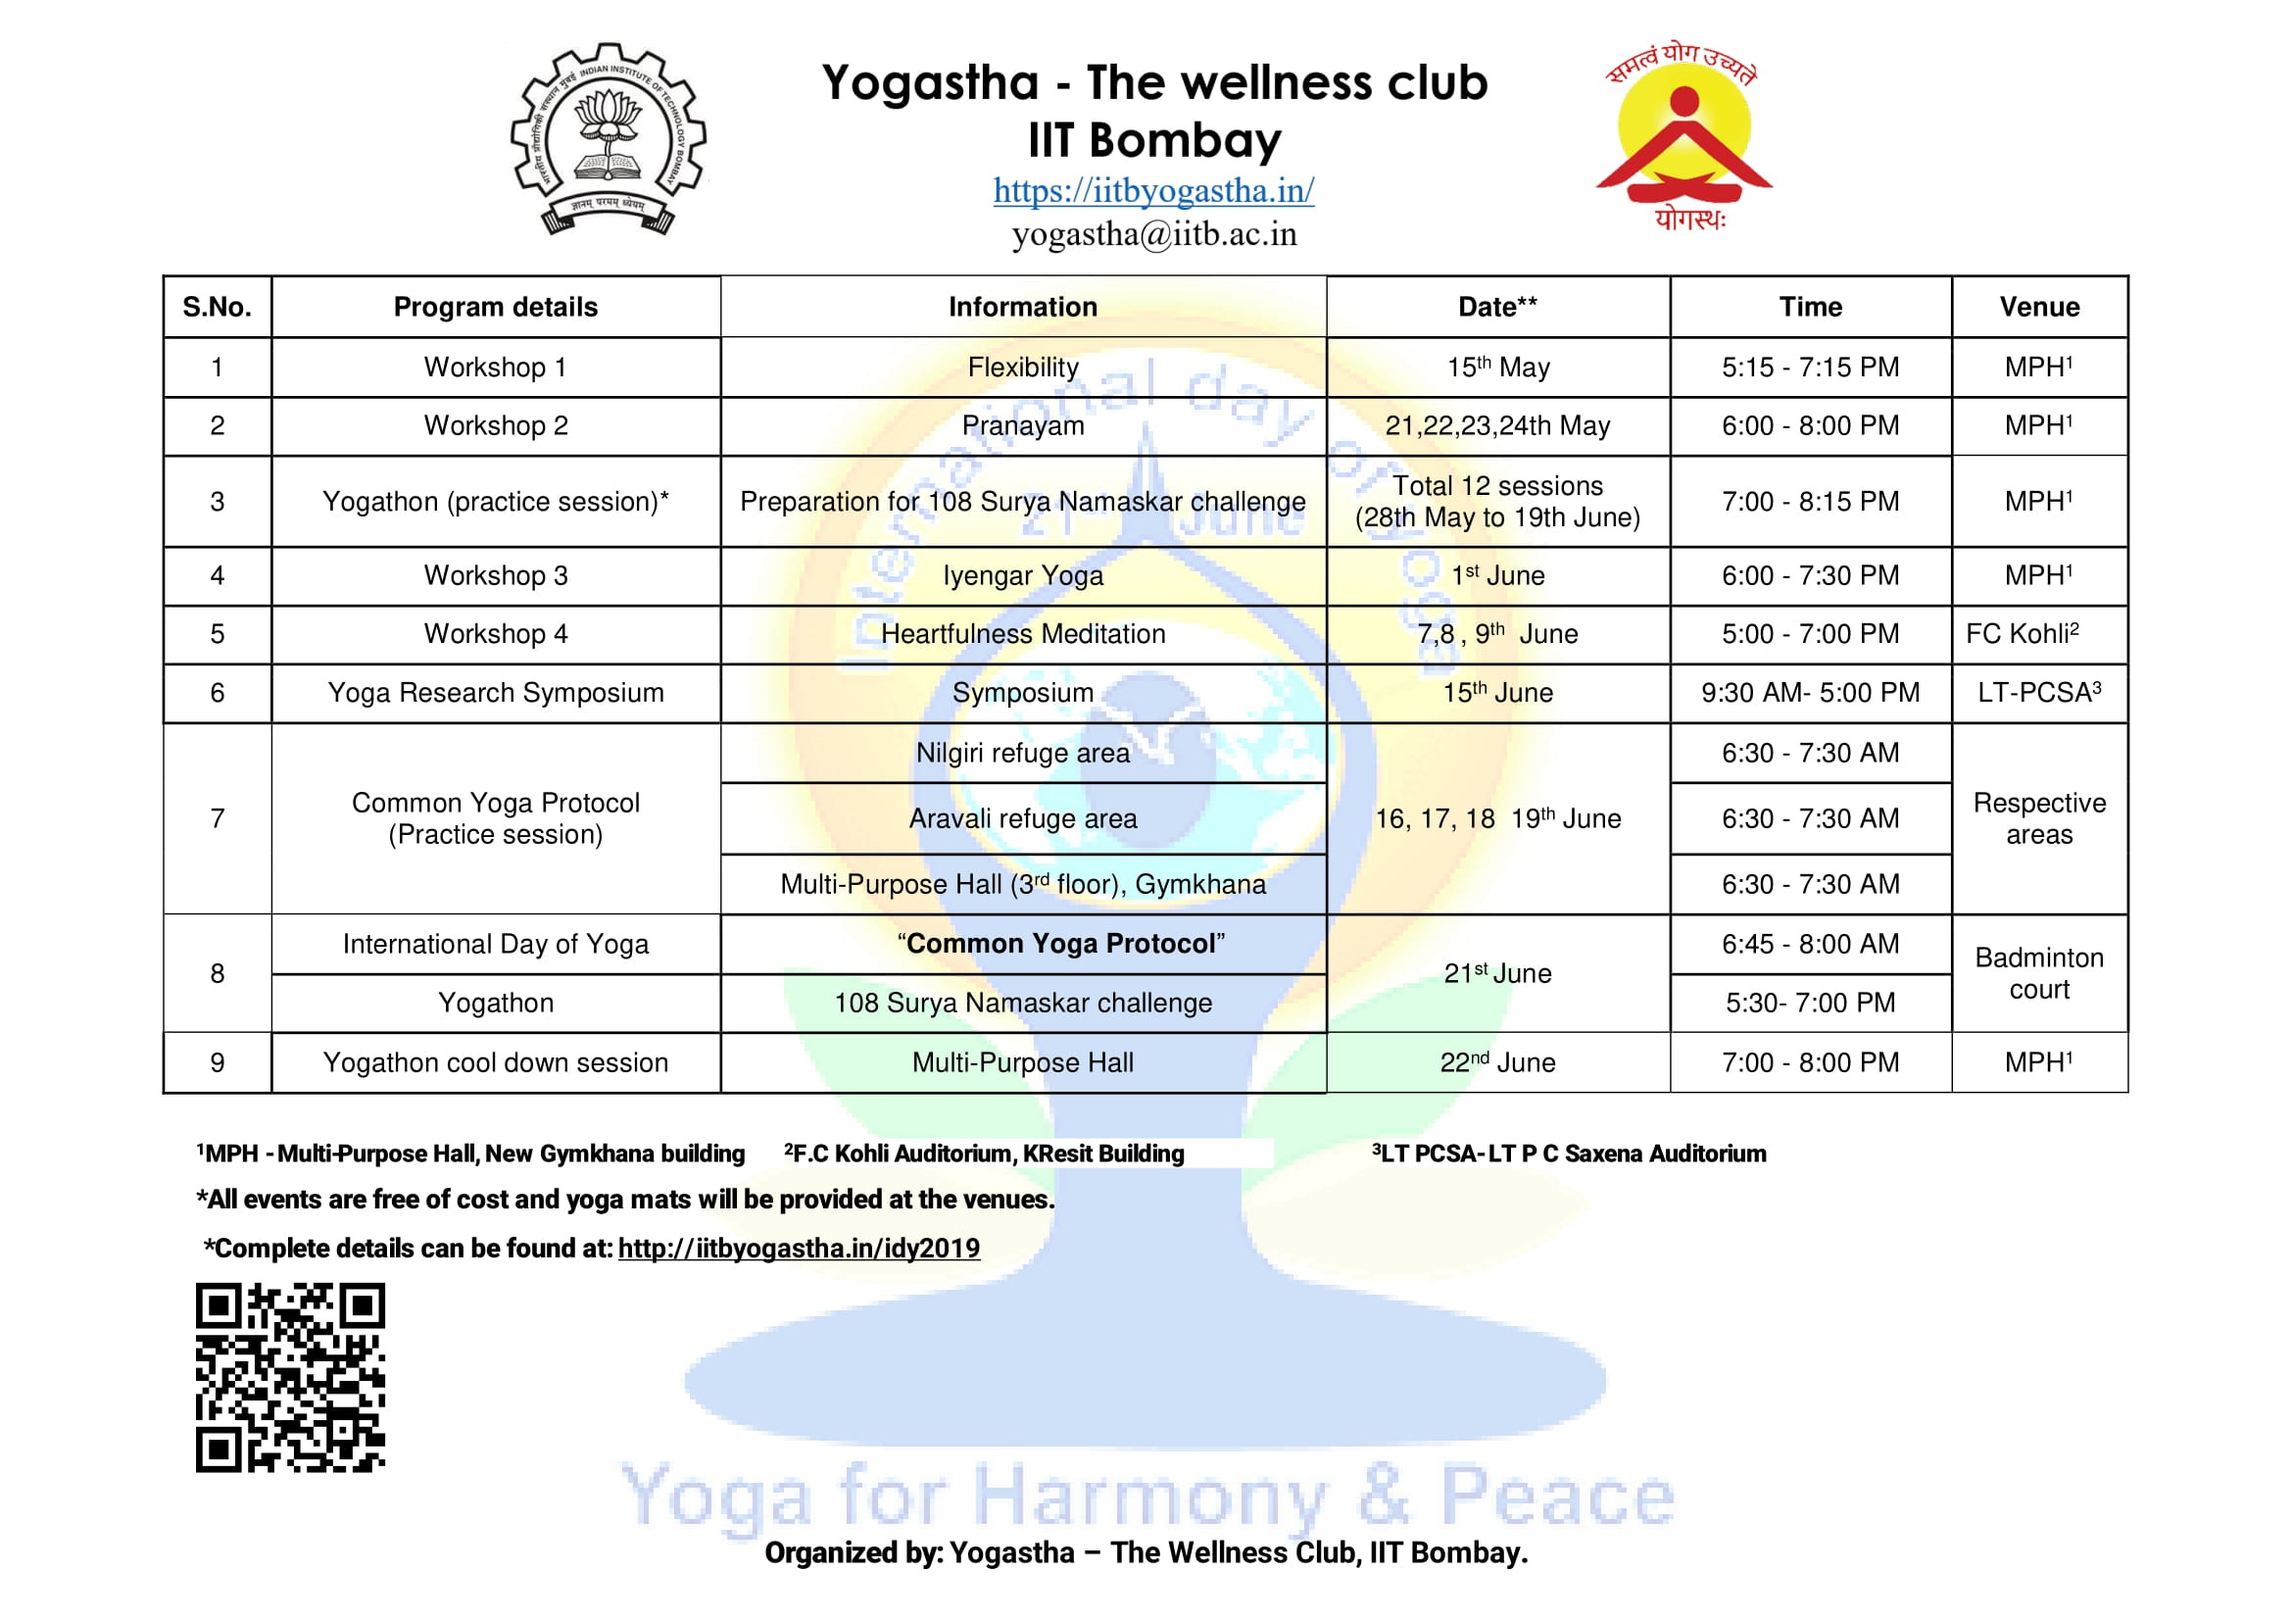
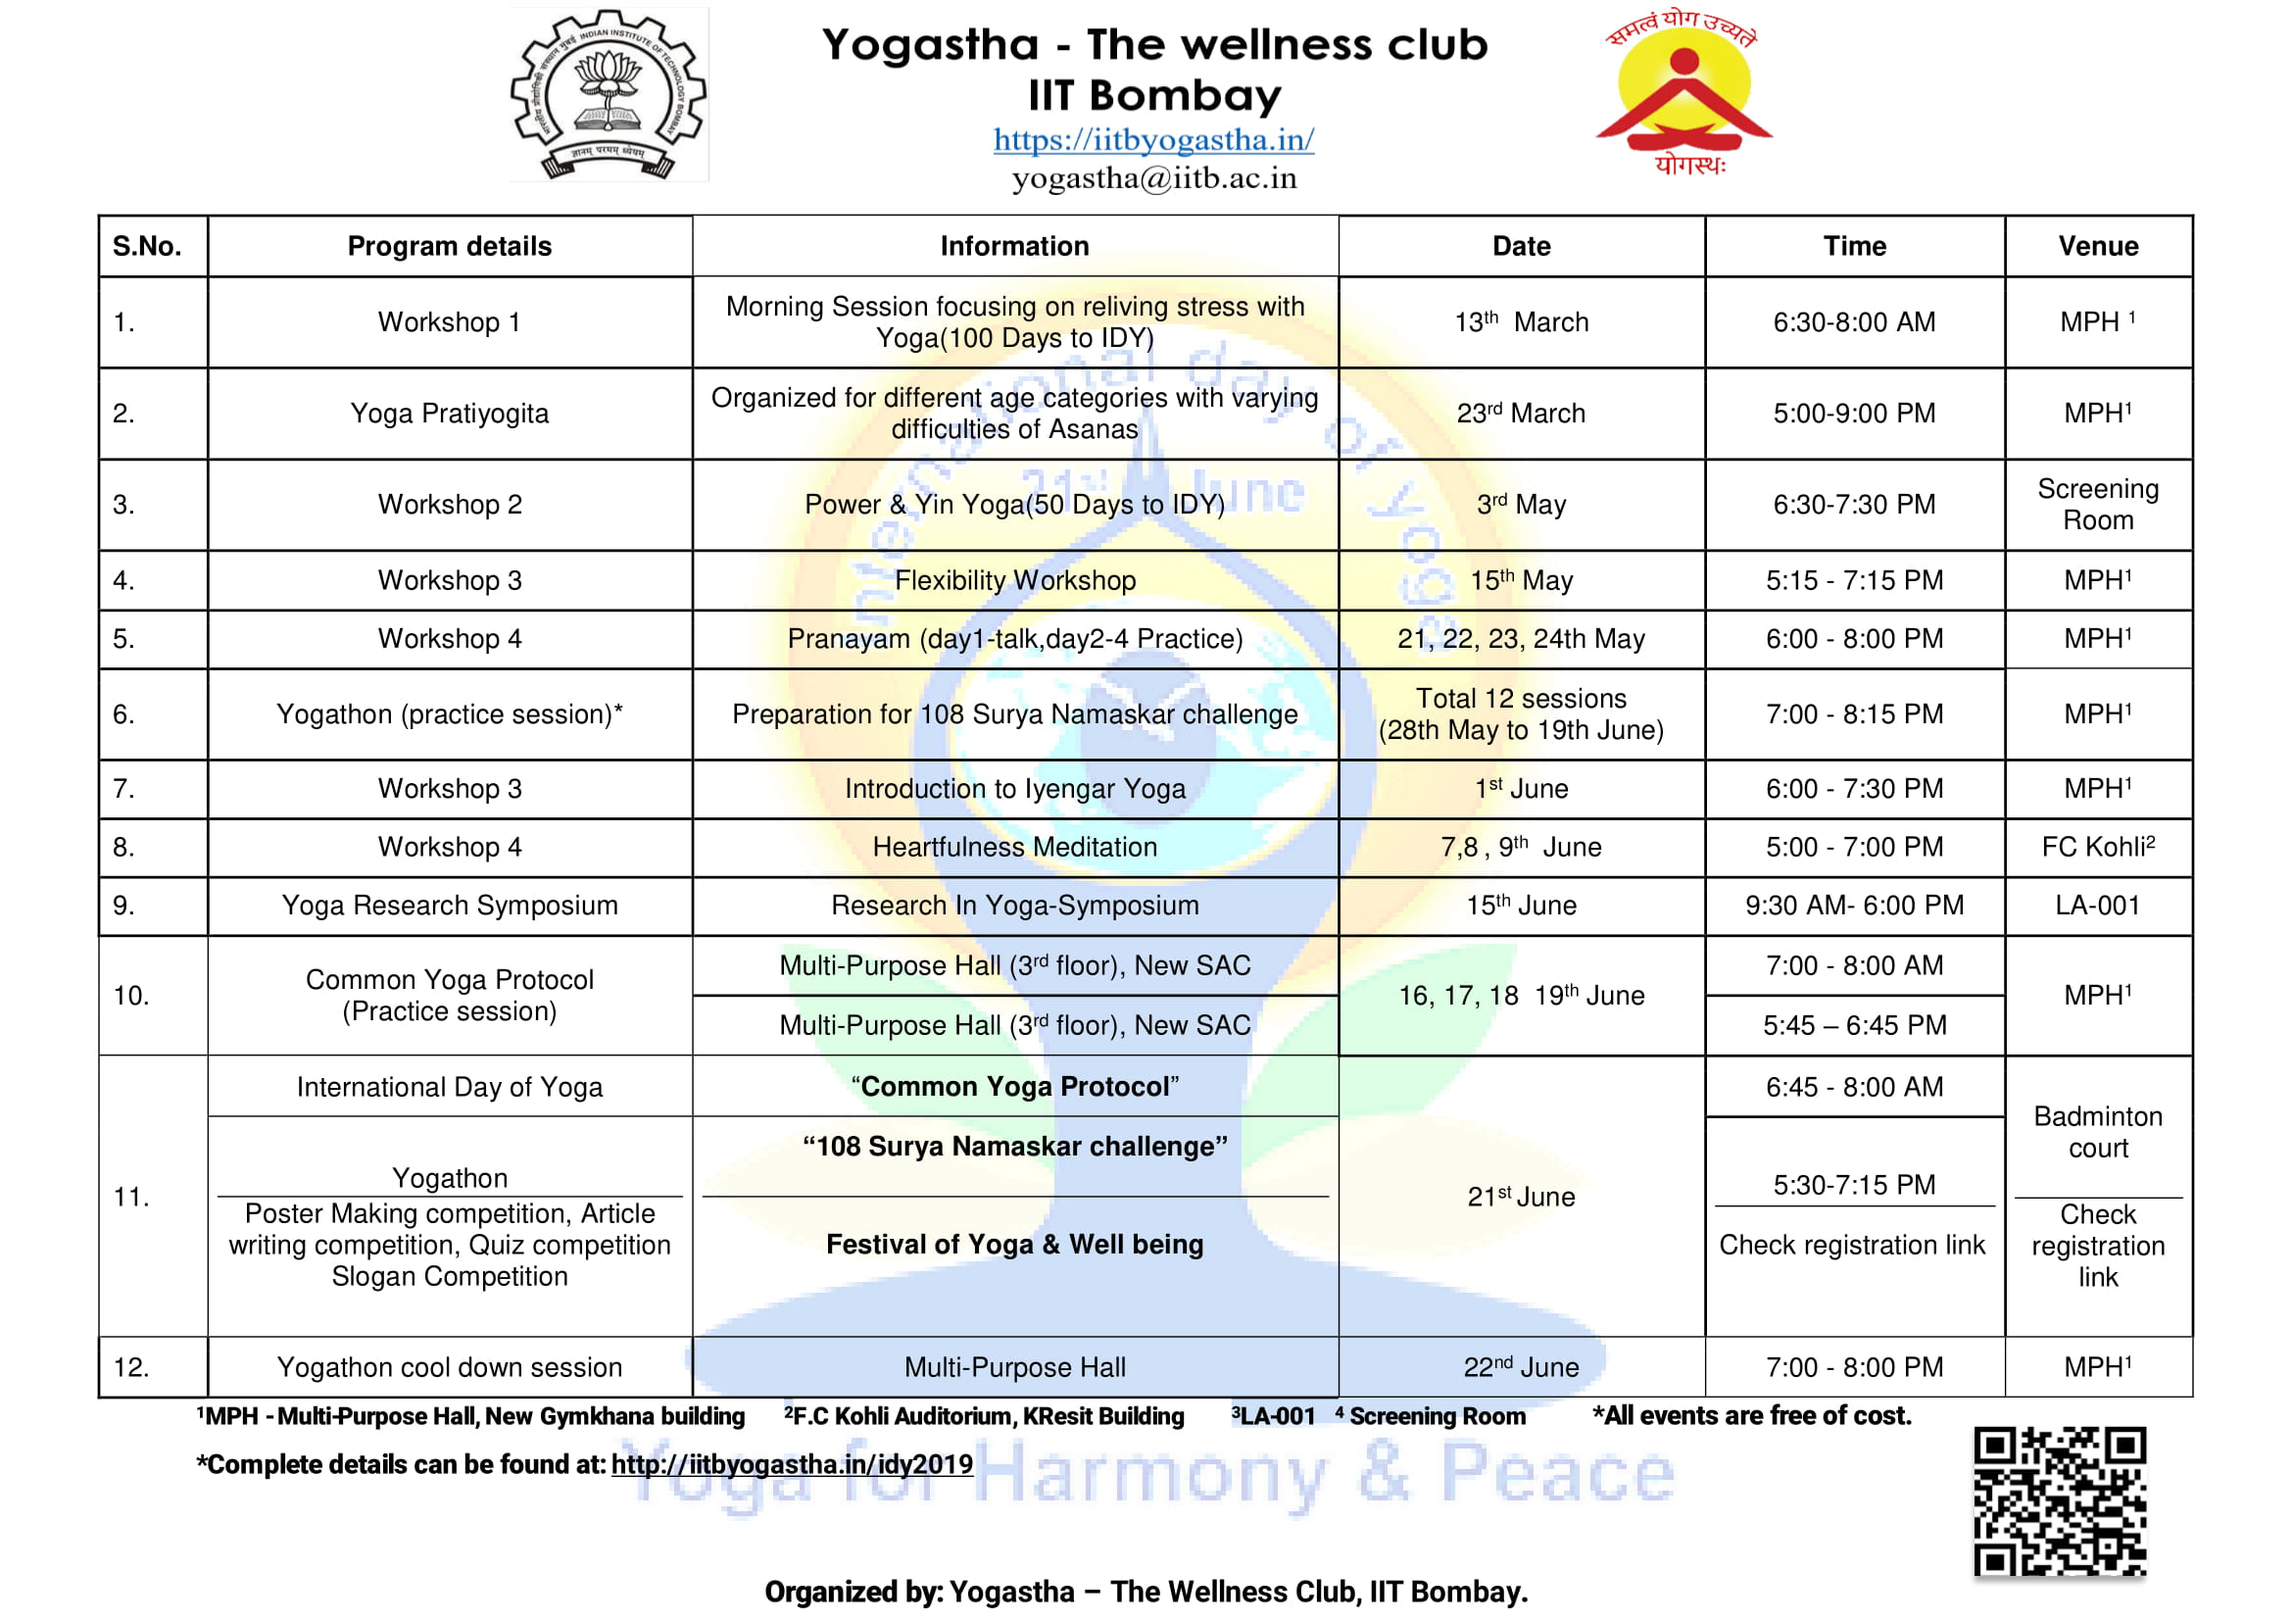
Day long activities update

Changed region(s): [[0.0312, 0.0, 0.9675, 1.0]]

diff --git a/idy2019/index.html b/idy2019/index.html
@@ -254,9 +254,9 @@
                  <table>
                    <tr><td><strong>Theme: &nbsp; </strong></td><td><strong><font color="blue">1. Mental Health with Yoga </font> </strong></td></tr>
                    <tr><td></td><td><strong><font color="blue">2. Importance of Yoga in student life</font></strong></td>
-                    <tr><td></td><td><strong><font color="blue">3. Improve Participation of student in Yoga activities at IITB</font></strong></td>
-                      <tr><td></td><td><strong><font color="blue">4. Why meditate?</font></strong></td>
-                        <tr><td></td><td><strong><font color="blue">5. Yoga-The Art & Science of living</font></strong></td>
+                    <!--<tr><td></td><td><strong><font color="blue">3. Improve Participation of student in Yoga activities at IITB</font></strong></td>
+                      <tr><td></td><td><strong><font color="blue">4. Why meditate?</font></strong></td>-->
+                        <tr><td></td><td><strong><font color="blue">3. Yoga-The Art & Science of living</font></strong></td>
 
                  </table> 
                   <br>
@@ -272,7 +272,7 @@
                   <br
                 </div>
               </div>
-            </div><!--End Event-->
+            </div></div><!--End Event-->
           <!--Start Event-->
           <div class="panel panel-default">
               <div class="panel-heading" role="tab" id="headingPoster">
@@ -301,10 +301,11 @@
                   : <strong>Pradeep | 
                       7008608776 || Shashi | 9738871153</strong>
                   <br><br>
-    
+                  <a href="https://forms.gle/QamjYKoNrnDcp3Ed6" class="btn btn-success">Register</a>
+                  <br
                 </div>
               </div>
-            </div><!--End Event-->
+            </div></div><!--End Event-->
          
           <!--Start Event-->
           <!--<div class="panel panel-default">
@@ -376,13 +377,13 @@
                   <br>
                 </div>
               </div>
-            </div><!--End Event-->
+            </div></div><!--End Event-->
 
           </div>
       </div>
     </div>
 
- <!--   
+   
   <div class="container">
     <div class="well">
       <div class="page-header">
@@ -390,13 +391,13 @@
       </div>
       <p>
         The Wellness Club at IITB <span class="imp">Yogastha</span> has been celebrating IDY since its inception. The
-        club kick starts its month long yoga week celebration with the following activities.
+        club kick starts its month long  IDY celebration with the following activities.
         <br>
       </p>
       <a href="../img/idy_2019_schedule.jpg"><img class="img-thumbnail" style="margin: 10px auto; width: 100%"
           src="../img/idy_2019_schedule.jpg" alt="IDY Schedule"></a>
 
-      <p>
+      <p><!--
         <br>
         <strong>Register at:</strong>
         <ul>
@@ -405,7 +406,7 @@
         </ul>
       </p>-->
     </div>
-  </div>
+  
 
   <table border=0 align="center">
     <tr>
@@ -418,7 +419,7 @@
   </table>
 
   <div style="margin-bottom: 20em;">
-  </div>
+  </div></div>
 
 </body>
 
